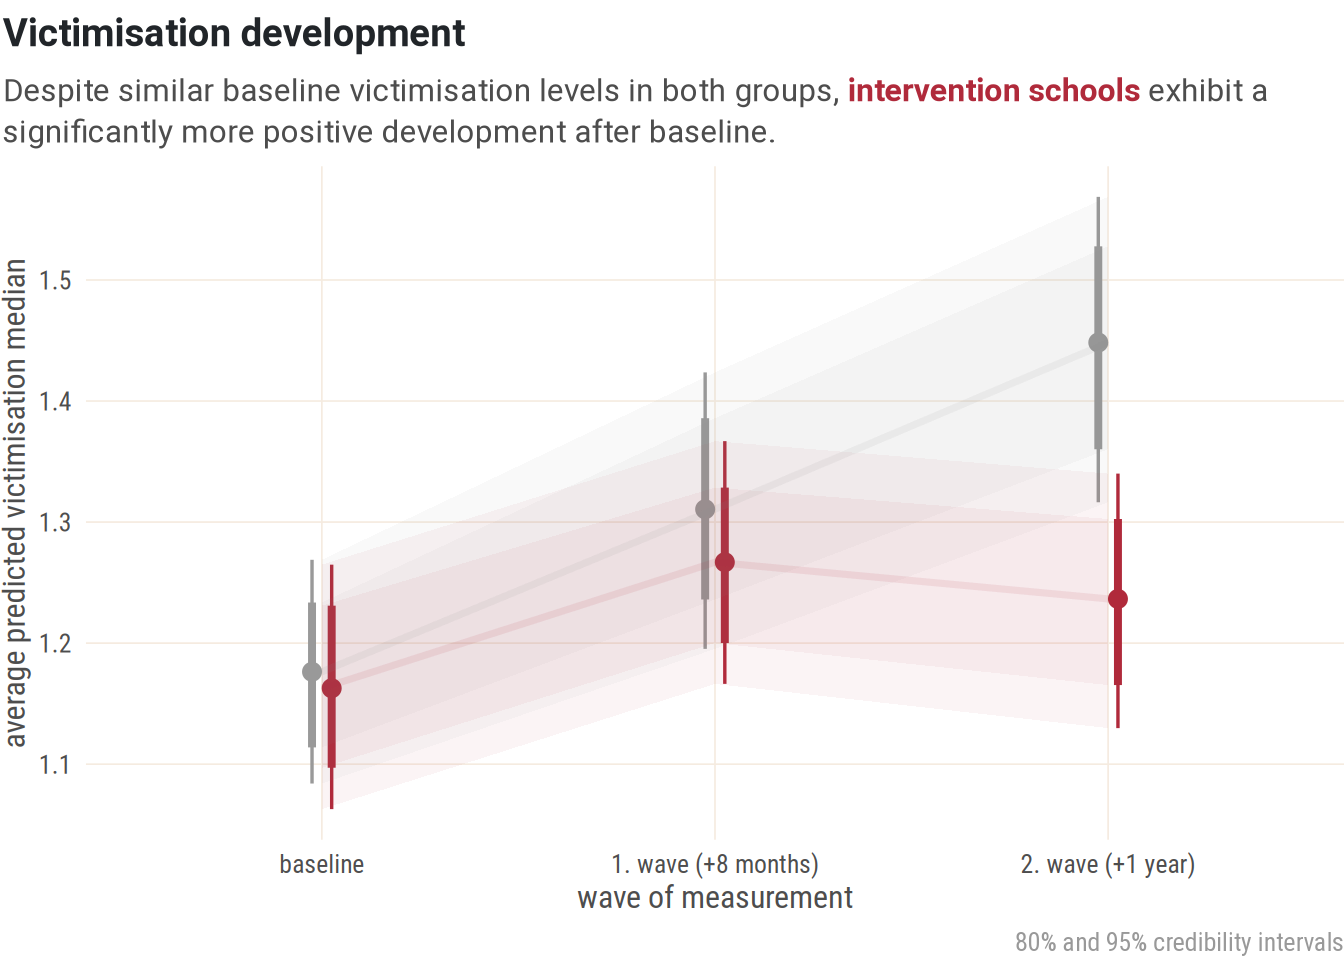
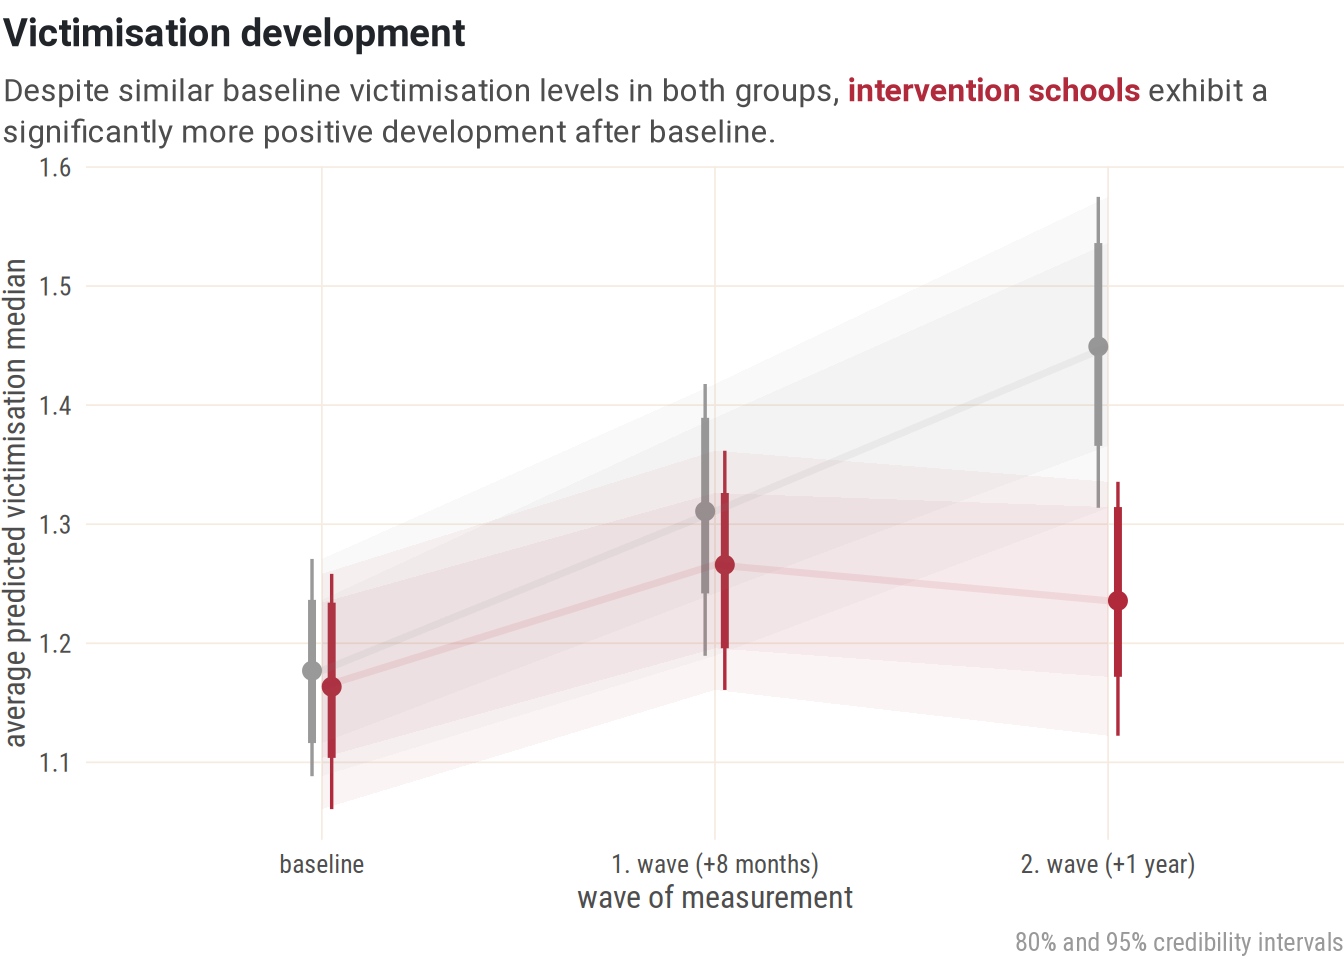
Built site for gh-pages

diff --git a/analysis.html b/analysis.html
@@ -229,6 +229,44 @@ p {
 <h1>Modelling</h1>
 <p>As can be seen on the density plots above, victimisation generally tends to be zero-inflated, and is thus best captured by zero-inflated or hurdle models. Among those who are bullied, severity of victimisation follows a roughly normal distribution. This calls for a a custom hurdle-gaussian model adopted from <span class="citation" data-cites="heiss2022">Heiss (<a href="#ref-heiss2022" role="doc-biblioref">2022</a>)</span>, which accounts for both parts: the hurdle part – whether a pupil experiences any bullying at all, and a gaussian part – for pupils who do experience bullying, what is the severity.</p>
 <p>We can define a hierarchical model where students are nested within classes, and classes are nested within schools, while controling for age and gender. The primary focus is the interaction effect of group (intervention vs.&nbsp;control) and wave.</p>
+<div class="cell">
+<details class="code-fold">
+<summary>Code</summary>
+<div class="sourceCode cell-code" id="cb1"><pre class="sourceCode r code-with-copy"><code class="sourceCode r"><span id="cb1-1"><a href="#cb1-1" aria-hidden="true" tabindex="-1"></a><span class="cf">if</span> (<span class="fu">file.exists</span>(<span class="fu">here</span>(models_dir, <span class="st">"vic_model_hurdle_gaus.rds"</span>)) <span class="sc">&amp;</span> </span>
+<span id="cb1-2"><a href="#cb1-2" aria-hidden="true" tabindex="-1"></a>    params<span class="sc">$</span>run_models_again <span class="sc">==</span> <span class="cn">FALSE</span>) {</span>
+<span id="cb1-3"><a href="#cb1-3" aria-hidden="true" tabindex="-1"></a>  vic_model_hurdle_gaus <span class="ot">&lt;-</span> <span class="fu">read_rds</span>(<span class="fu">here</span>(models_dir, <span class="st">"vic_model_hurdle_gaus.rds"</span>))</span>
+<span id="cb1-4"><a href="#cb1-4" aria-hidden="true" tabindex="-1"></a>} <span class="cf">else</span> {</span>
+<span id="cb1-5"><a href="#cb1-5" aria-hidden="true" tabindex="-1"></a>  vic_model_hurdle_gaus <span class="ot">&lt;-</span> <span class="fu">brm</span>(</span>
+<span id="cb1-6"><a href="#cb1-6" aria-hidden="true" tabindex="-1"></a>    <span class="at">formula =</span> <span class="fu">bf</span>(</span>
+<span id="cb1-7"><a href="#cb1-7" aria-hidden="true" tabindex="-1"></a>      vic_shifted <span class="sc">~</span> gender <span class="sc">+</span> age <span class="sc">+</span></span>
+<span id="cb1-8"><a href="#cb1-8" aria-hidden="true" tabindex="-1"></a>        exp_group <span class="sc">*</span> wave <span class="sc">+</span></span>
+<span id="cb1-9"><a href="#cb1-9" aria-hidden="true" tabindex="-1"></a>        (<span class="dv">1</span> <span class="sc">|</span> school_id <span class="sc">/</span> class_group <span class="sc">/</span> pupil_id),</span>
+<span id="cb1-10"><a href="#cb1-10" aria-hidden="true" tabindex="-1"></a>      hu <span class="sc">~</span> gender <span class="sc">+</span> age <span class="sc">+</span> exp_group <span class="sc">*</span> wave <span class="sc">+</span></span>
+<span id="cb1-11"><a href="#cb1-11" aria-hidden="true" tabindex="-1"></a>        (<span class="dv">1</span> <span class="sc">|</span> school_id)</span>
+<span id="cb1-12"><a href="#cb1-12" aria-hidden="true" tabindex="-1"></a>    ),</span>
+<span id="cb1-13"><a href="#cb1-13" aria-hidden="true" tabindex="-1"></a>    <span class="at">control =</span> <span class="fu">list</span>(<span class="at">adapt_delta =</span> <span class="fl">0.99</span>),</span>
+<span id="cb1-14"><a href="#cb1-14" aria-hidden="true" tabindex="-1"></a>    <span class="at">family =</span> hurdle_gaussian,</span>
+<span id="cb1-15"><a href="#cb1-15" aria-hidden="true" tabindex="-1"></a>    <span class="at">prior =</span> <span class="fu">c</span>(</span>
+<span id="cb1-16"><a href="#cb1-16" aria-hidden="true" tabindex="-1"></a>      <span class="co"># gaussian mean (mu)</span></span>
+<span id="cb1-17"><a href="#cb1-17" aria-hidden="true" tabindex="-1"></a>      <span class="fu">set_prior</span>(<span class="st">"normal(1.5, 0.5)"</span>, <span class="at">class =</span> <span class="st">"Intercept"</span>, <span class="at">dpar =</span> <span class="st">"mu"</span>),</span>
+<span id="cb1-18"><a href="#cb1-18" aria-hidden="true" tabindex="-1"></a>      <span class="co"># gaussian SD (sigma)</span></span>
+<span id="cb1-19"><a href="#cb1-19" aria-hidden="true" tabindex="-1"></a>      <span class="fu">set_prior</span>(<span class="st">"normal(0.5, 0.1)"</span>, <span class="at">class =</span> <span class="st">"sigma"</span>),</span>
+<span id="cb1-20"><a href="#cb1-20" aria-hidden="true" tabindex="-1"></a>      <span class="co"># coefficients</span></span>
+<span id="cb1-21"><a href="#cb1-21" aria-hidden="true" tabindex="-1"></a>      <span class="fu">set_prior</span>(<span class="st">"normal(0, 1)"</span>, <span class="at">class =</span> <span class="st">"b"</span>)</span>
+<span id="cb1-22"><a href="#cb1-22" aria-hidden="true" tabindex="-1"></a>    ),</span>
+<span id="cb1-23"><a href="#cb1-23" aria-hidden="true" tabindex="-1"></a>    <span class="at">stanvars =</span> stanvars,</span>
+<span id="cb1-24"><a href="#cb1-24" aria-hidden="true" tabindex="-1"></a>    <span class="at">iter =</span> iter,</span>
+<span id="cb1-25"><a href="#cb1-25" aria-hidden="true" tabindex="-1"></a>    <span class="at">chains =</span> chains,</span>
+<span id="cb1-26"><a href="#cb1-26" aria-hidden="true" tabindex="-1"></a>    <span class="at">warmup =</span> warmup,</span>
+<span id="cb1-27"><a href="#cb1-27" aria-hidden="true" tabindex="-1"></a>    <span class="at">seed =</span> bayes_seed,</span>
+<span id="cb1-28"><a href="#cb1-28" aria-hidden="true" tabindex="-1"></a>    <span class="at">backend =</span> <span class="st">"cmdstanr"</span>,</span>
+<span id="cb1-29"><a href="#cb1-29" aria-hidden="true" tabindex="-1"></a>    <span class="at">threads =</span> <span class="fu">threading</span>(<span class="dv">2</span>),</span>
+<span id="cb1-30"><a href="#cb1-30" aria-hidden="true" tabindex="-1"></a>    <span class="at">data =</span> d_mirt</span>
+<span id="cb1-31"><a href="#cb1-31" aria-hidden="true" tabindex="-1"></a>  )</span>
+<span id="cb1-32"><a href="#cb1-32" aria-hidden="true" tabindex="-1"></a>  <span class="fu">write_rds</span>(vic_model_hurdle_gaus, <span class="fu">here</span>(models_dir, <span class="st">"vic_model_hurdle_gaus.rds"</span>))</span>
+<span id="cb1-33"><a href="#cb1-33" aria-hidden="true" tabindex="-1"></a>}</span></code><button title="Copy to Clipboard" class="code-copy-button"><i class="bi"></i></button></pre></div>
+</details>
+</div>
 <div class="cell" data-layout-align="center">
 <div class="cell-output-display">
 <div class="quarto-figure quarto-figure-center">
@@ -241,29 +279,29 @@ p {
 <div class="cell" data-layout-align="center">
 <details class="code-fold">
 <summary>Code</summary>
-<div class="sourceCode cell-code" id="cb1"><pre class="sourceCode r code-with-copy"><code class="sourceCode r"><span id="cb1-1"><a href="#cb1-1" aria-hidden="true" tabindex="-1"></a>group_contrasts_by_wave <span class="ot">&lt;-</span> <span class="fu">avg_comparisons</span>(vic_model_hurdle_gaus,</span>
-<span id="cb1-2"><a href="#cb1-2" aria-hidden="true" tabindex="-1"></a>  <span class="at">type =</span> <span class="st">"prediction"</span>,</span>
-<span id="cb1-3"><a href="#cb1-3" aria-hidden="true" tabindex="-1"></a>  <span class="at">variables =</span> <span class="st">"exp_group"</span>, <span class="at">by =</span> <span class="st">"wave"</span>,</span>
-<span id="cb1-4"><a href="#cb1-4" aria-hidden="true" tabindex="-1"></a>  <span class="at">allow_new_levels =</span> <span class="cn">TRUE</span></span>
-<span id="cb1-5"><a href="#cb1-5" aria-hidden="true" tabindex="-1"></a>)</span>
-<span id="cb1-6"><a href="#cb1-6" aria-hidden="true" tabindex="-1"></a></span>
-<span id="cb1-7"><a href="#cb1-7" aria-hidden="true" tabindex="-1"></a>pd_group_contrasts_by_wave <span class="ot">&lt;-</span> group_contrasts_by_wave <span class="sc">|&gt;</span></span>
-<span id="cb1-8"><a href="#cb1-8" aria-hidden="true" tabindex="-1"></a>  <span class="fu">posterior_draws</span>()</span>
-<span id="cb1-9"><a href="#cb1-9" aria-hidden="true" tabindex="-1"></a></span>
-<span id="cb1-10"><a href="#cb1-10" aria-hidden="true" tabindex="-1"></a>contrasts_table <span class="ot">&lt;-</span> pd_group_contrasts_by_wave <span class="sc">|&gt;</span> </span>
-<span id="cb1-11"><a href="#cb1-11" aria-hidden="true" tabindex="-1"></a>  <span class="fu">mutate</span>(<span class="at">wave =</span> <span class="fu">factor</span>(wave, <span class="at">levels =</span> <span class="fu">c</span>(<span class="st">"baseline"</span>, <span class="st">"wave_1"</span>, <span class="st">"wave_2"</span>),</span>
-<span id="cb1-12"><a href="#cb1-12" aria-hidden="true" tabindex="-1"></a>                       <span class="at">labels =</span> <span class="fu">c</span>(<span class="st">"baseline"</span>, <span class="st">"1. wave (+8 months)"</span>, </span>
-<span id="cb1-13"><a href="#cb1-13" aria-hidden="true" tabindex="-1"></a>                                  <span class="st">"2. wave (+20 months)"</span>))) <span class="sc">|&gt;</span> </span>
-<span id="cb1-14"><a href="#cb1-14" aria-hidden="true" tabindex="-1"></a>  <span class="fu">group_by</span>(wave) <span class="sc">|&gt;</span> </span>
-<span id="cb1-15"><a href="#cb1-15" aria-hidden="true" tabindex="-1"></a>  <span class="fu">summarise</span>(<span class="fu">median_hdi</span>(draw)) <span class="sc">|&gt;</span> </span>
-<span id="cb1-16"><a href="#cb1-16" aria-hidden="true" tabindex="-1"></a>  <span class="fu">select</span>(wave<span class="sc">:</span>ymax)</span>
-<span id="cb1-17"><a href="#cb1-17" aria-hidden="true" tabindex="-1"></a></span>
-<span id="cb1-18"><a href="#cb1-18" aria-hidden="true" tabindex="-1"></a>contrasts_table <span class="sc">|&gt;</span> </span>
-<span id="cb1-19"><a href="#cb1-19" aria-hidden="true" tabindex="-1"></a>  <span class="fu">kable</span>(<span class="at">caption =</span> <span class="st">"Anti-bullying programme effect on victimisation scores"</span>,</span>
-<span id="cb1-20"><a href="#cb1-20" aria-hidden="true" tabindex="-1"></a>        <span class="at">col.names =</span> <span class="fu">c</span>(<span class="st">"wave of measurement"</span>, <span class="st">"estimate"</span>, <span class="st">"lower"</span>, <span class="st">"upper"</span>),</span>
-<span id="cb1-21"><a href="#cb1-21" aria-hidden="true" tabindex="-1"></a>        <span class="at">digits =</span> <span class="dv">2</span>) <span class="sc">|&gt;</span> </span>
-<span id="cb1-22"><a href="#cb1-22" aria-hidden="true" tabindex="-1"></a>  <span class="fu">kable_styling</span>() <span class="sc">|&gt;</span> </span>
-<span id="cb1-23"><a href="#cb1-23" aria-hidden="true" tabindex="-1"></a>  <span class="fu">footnote</span>(<span class="at">general =</span> <span class="st">"95 % credibility intervals"</span>, <span class="at">threeparttable =</span> <span class="cn">TRUE</span>)</span></code><button title="Copy to Clipboard" class="code-copy-button"><i class="bi"></i></button></pre></div>
+<div class="sourceCode cell-code" id="cb2"><pre class="sourceCode r code-with-copy"><code class="sourceCode r"><span id="cb2-1"><a href="#cb2-1" aria-hidden="true" tabindex="-1"></a>group_contrasts_by_wave <span class="ot">&lt;-</span> <span class="fu">avg_comparisons</span>(vic_model_hurdle_gaus,</span>
+<span id="cb2-2"><a href="#cb2-2" aria-hidden="true" tabindex="-1"></a>  <span class="at">type =</span> <span class="st">"prediction"</span>,</span>
+<span id="cb2-3"><a href="#cb2-3" aria-hidden="true" tabindex="-1"></a>  <span class="at">variables =</span> <span class="st">"exp_group"</span>, <span class="at">by =</span> <span class="st">"wave"</span>,</span>
+<span id="cb2-4"><a href="#cb2-4" aria-hidden="true" tabindex="-1"></a>  <span class="at">allow_new_levels =</span> <span class="cn">TRUE</span></span>
+<span id="cb2-5"><a href="#cb2-5" aria-hidden="true" tabindex="-1"></a>)</span>
+<span id="cb2-6"><a href="#cb2-6" aria-hidden="true" tabindex="-1"></a></span>
+<span id="cb2-7"><a href="#cb2-7" aria-hidden="true" tabindex="-1"></a>pd_group_contrasts_by_wave <span class="ot">&lt;-</span> group_contrasts_by_wave <span class="sc">|&gt;</span></span>
+<span id="cb2-8"><a href="#cb2-8" aria-hidden="true" tabindex="-1"></a>  <span class="fu">posterior_draws</span>()</span>
+<span id="cb2-9"><a href="#cb2-9" aria-hidden="true" tabindex="-1"></a></span>
+<span id="cb2-10"><a href="#cb2-10" aria-hidden="true" tabindex="-1"></a>contrasts_table <span class="ot">&lt;-</span> pd_group_contrasts_by_wave <span class="sc">|&gt;</span> </span>
+<span id="cb2-11"><a href="#cb2-11" aria-hidden="true" tabindex="-1"></a>  <span class="fu">mutate</span>(<span class="at">wave =</span> <span class="fu">factor</span>(wave, <span class="at">levels =</span> <span class="fu">c</span>(<span class="st">"baseline"</span>, <span class="st">"wave_1"</span>, <span class="st">"wave_2"</span>),</span>
+<span id="cb2-12"><a href="#cb2-12" aria-hidden="true" tabindex="-1"></a>                       <span class="at">labels =</span> <span class="fu">c</span>(<span class="st">"baseline"</span>, <span class="st">"1. wave (+8 months)"</span>, </span>
+<span id="cb2-13"><a href="#cb2-13" aria-hidden="true" tabindex="-1"></a>                                  <span class="st">"2. wave (+20 months)"</span>))) <span class="sc">|&gt;</span> </span>
+<span id="cb2-14"><a href="#cb2-14" aria-hidden="true" tabindex="-1"></a>  <span class="fu">group_by</span>(wave) <span class="sc">|&gt;</span> </span>
+<span id="cb2-15"><a href="#cb2-15" aria-hidden="true" tabindex="-1"></a>  <span class="fu">summarise</span>(<span class="fu">median_hdi</span>(draw)) <span class="sc">|&gt;</span> </span>
+<span id="cb2-16"><a href="#cb2-16" aria-hidden="true" tabindex="-1"></a>  <span class="fu">select</span>(wave<span class="sc">:</span>ymax)</span>
+<span id="cb2-17"><a href="#cb2-17" aria-hidden="true" tabindex="-1"></a></span>
+<span id="cb2-18"><a href="#cb2-18" aria-hidden="true" tabindex="-1"></a>contrasts_table <span class="sc">|&gt;</span> </span>
+<span id="cb2-19"><a href="#cb2-19" aria-hidden="true" tabindex="-1"></a>  <span class="fu">kable</span>(<span class="at">caption =</span> <span class="st">"Anti-bullying programme effect on victimisation scores"</span>,</span>
+<span id="cb2-20"><a href="#cb2-20" aria-hidden="true" tabindex="-1"></a>        <span class="at">col.names =</span> <span class="fu">c</span>(<span class="st">"wave of measurement"</span>, <span class="st">"estimate"</span>, <span class="st">"lower"</span>, <span class="st">"upper"</span>),</span>
+<span id="cb2-21"><a href="#cb2-21" aria-hidden="true" tabindex="-1"></a>        <span class="at">digits =</span> <span class="dv">2</span>) <span class="sc">|&gt;</span> </span>
+<span id="cb2-22"><a href="#cb2-22" aria-hidden="true" tabindex="-1"></a>  <span class="fu">kable_styling</span>() <span class="sc">|&gt;</span> </span>
+<span id="cb2-23"><a href="#cb2-23" aria-hidden="true" tabindex="-1"></a>  <span class="fu">footnote</span>(<span class="at">general =</span> <span class="st">"95 % credibility intervals"</span>, <span class="at">threeparttable =</span> <span class="cn">TRUE</span>)</span></code><button title="Copy to Clipboard" class="code-copy-button"><i class="bi"></i></button></pre></div>
 </details>
 <div class="cell-output-display">
 <table class="table caption-top table-sm table-striped small" data-quarto-postprocess="true">
@@ -286,14 +324,14 @@ p {
 <tr class="even">
 <td style="text-align: left;">1. wave (+8 months)</td>
 <td style="text-align: right;">-0.05</td>
-<td style="text-align: right;">-0.18</td>
-<td style="text-align: right;">0.08</td>
+<td style="text-align: right;">-0.17</td>
+<td style="text-align: right;">0.09</td>
 </tr>
 <tr class="odd">
 <td style="text-align: left;">2. wave (+20 months)</td>
-<td style="text-align: right;">-0.22</td>
-<td style="text-align: right;">-0.36</td>
-<td style="text-align: right;">-0.07</td>
+<td style="text-align: right;">-0.21</td>
+<td style="text-align: right;">-0.35</td>
+<td style="text-align: right;">-0.08</td>
 </tr>
 </tbody><tfoot>
 <tr class="odd">
@@ -315,7 +353,7 @@ p {
 </div>
 <p><br>
 </p>
-<p>Based on the fitted model, we can estimate that after 20 months of programme implementation, pupils in intervention schools will, on average, exhibit victimisation scores lower by approx. -0.2 in comparison to control schools.</p>
+<p>Based on the fitted model, we can estimate that after 20 months of programme implementation, pupils in intervention schools will, on average, exhibit victimisation scores lower by approx. -0.2 in comparison to control schools. Reported victimisation increases for both groups between the first two waves, most likely due to the timing of the measurement (beginning vs.&nbsp;end of the school year).</p>
 <div class="cell" data-layout-align="center">
 <div class="cell-output-display">
 <div class="quarto-figure quarto-figure-center">
@@ -336,6 +374,35 @@ p {
 </div>
 </div>
 <p>But what exactly does this difference mean in practical terms? We can binarize the victimisation score based on a cut-off, that will determine where we draw the line to label a pupil as being victimised. One such (arbitrary) cut-off we could look at is 1, meaning we treat pupils with victimisation scores above 1 standard deviation as being victimised. Then we can fit a binomial model.</p>
+<div class="cell">
+<details class="code-fold">
+<summary>Code</summary>
+<div class="sourceCode cell-code" id="cb3"><pre class="sourceCode r code-with-copy"><code class="sourceCode r"><span id="cb3-1"><a href="#cb3-1" aria-hidden="true" tabindex="-1"></a>d_mirt <span class="ot">&lt;-</span> d_mirt <span class="sc">|&gt;</span> </span>
+<span id="cb3-2"><a href="#cb3-2" aria-hidden="true" tabindex="-1"></a>  <span class="fu">mutate</span>(<span class="at">vic_bin =</span> <span class="fu">ifelse</span>(vic <span class="sc">&gt;</span> <span class="dv">1</span>, <span class="dv">1</span>, <span class="dv">0</span>))</span>
+<span id="cb3-3"><a href="#cb3-3" aria-hidden="true" tabindex="-1"></a></span>
+<span id="cb3-4"><a href="#cb3-4" aria-hidden="true" tabindex="-1"></a><span class="cf">if</span> (<span class="fu">file.exists</span>(<span class="fu">here</span>(models_dir, <span class="st">"vic_model_bin1sd.rds"</span>)) <span class="sc">&amp;</span></span>
+<span id="cb3-5"><a href="#cb3-5" aria-hidden="true" tabindex="-1"></a>    params<span class="sc">$</span>run_models_again <span class="sc">==</span> <span class="cn">FALSE</span>) {</span>
+<span id="cb3-6"><a href="#cb3-6" aria-hidden="true" tabindex="-1"></a>  vic_model_bin1sd <span class="ot">&lt;-</span> <span class="fu">read_rds</span>(<span class="fu">here</span>(</span>
+<span id="cb3-7"><a href="#cb3-7" aria-hidden="true" tabindex="-1"></a>    models_dir, <span class="st">"vic_model_bin1sd.rds"</span>))</span>
+<span id="cb3-8"><a href="#cb3-8" aria-hidden="true" tabindex="-1"></a>} <span class="cf">else</span> {</span>
+<span id="cb3-9"><a href="#cb3-9" aria-hidden="true" tabindex="-1"></a>  vic_model_bin1sd <span class="ot">&lt;-</span> <span class="fu">brm</span>(</span>
+<span id="cb3-10"><a href="#cb3-10" aria-hidden="true" tabindex="-1"></a>    <span class="at">family =</span> bernoulli,</span>
+<span id="cb3-11"><a href="#cb3-11" aria-hidden="true" tabindex="-1"></a>    <span class="at">formula =</span> <span class="fu">bf</span>(</span>
+<span id="cb3-12"><a href="#cb3-12" aria-hidden="true" tabindex="-1"></a>      vic_bin <span class="sc">~</span></span>
+<span id="cb3-13"><a href="#cb3-13" aria-hidden="true" tabindex="-1"></a>        gender <span class="sc">+</span> age <span class="sc">+</span> exp_group <span class="sc">*</span> wave <span class="sc">+</span></span>
+<span id="cb3-14"><a href="#cb3-14" aria-hidden="true" tabindex="-1"></a>        (<span class="dv">1</span> <span class="sc">|</span> school_id <span class="sc">/</span> class_group <span class="sc">/</span> pupil_id)</span>
+<span id="cb3-15"><a href="#cb3-15" aria-hidden="true" tabindex="-1"></a>    ),</span>
+<span id="cb3-16"><a href="#cb3-16" aria-hidden="true" tabindex="-1"></a>    <span class="at">data =</span> d_mirt,</span>
+<span id="cb3-17"><a href="#cb3-17" aria-hidden="true" tabindex="-1"></a>    <span class="at">iter =</span> iter,</span>
+<span id="cb3-18"><a href="#cb3-18" aria-hidden="true" tabindex="-1"></a>    <span class="at">chains =</span> chains,</span>
+<span id="cb3-19"><a href="#cb3-19" aria-hidden="true" tabindex="-1"></a>    <span class="at">seed =</span> bayes_seed,</span>
+<span id="cb3-20"><a href="#cb3-20" aria-hidden="true" tabindex="-1"></a>    <span class="at">warmup =</span> warmup</span>
+<span id="cb3-21"><a href="#cb3-21" aria-hidden="true" tabindex="-1"></a>  )</span>
+<span id="cb3-22"><a href="#cb3-22" aria-hidden="true" tabindex="-1"></a>  <span class="fu">write_rds</span>(vic_model_bin1sd, <span class="fu">here</span>(</span>
+<span id="cb3-23"><a href="#cb3-23" aria-hidden="true" tabindex="-1"></a>    models_dir, <span class="st">"vic_model_bin1sd.rds"</span>))</span>
+<span id="cb3-24"><a href="#cb3-24" aria-hidden="true" tabindex="-1"></a>}</span></code><button title="Copy to Clipboard" class="code-copy-button"><i class="bi"></i></button></pre></div>
+</details>
+</div>
 <div class="cell" data-layout-align="center">
 <div class="cell-output-display">
 <div class="quarto-figure quarto-figure-center">
